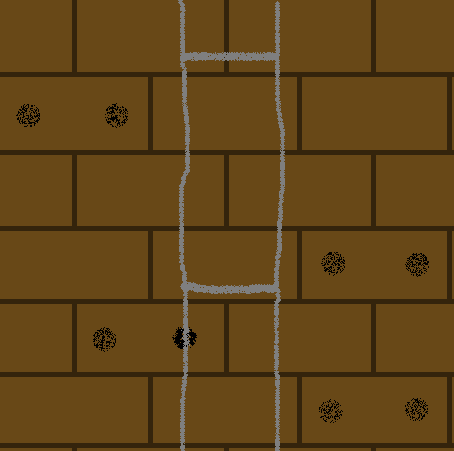
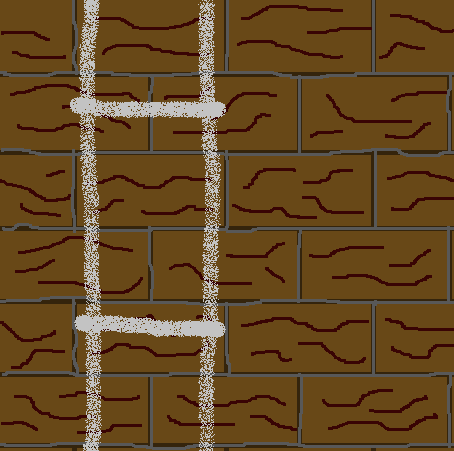
Code simplify (minor), wall and rope changes
Ropes appear upon hover. Pics updated. No build and export for this commit.

diff --git a/trapp/pages/pb/prisonbreak2.js b/trapp/pages/pb/prisonbreak2.js
@@ -657,6 +657,13 @@ const Game = ({isrejoin, prisonersOrGuards, gameid, nickname, wsmessage, client
     scrollToBottom("ScrollableMoves");
   },[moves])
 
+  function putAtMoveStart() {
+    setSelection(-1);
+    setAllowRewind(false);
+    setRcd(-1,-1,nodirection);
+    setCurrentcoords([]);
+  }
+
   function processGameMessage(message) {
     let messageData = JSON.parse(message);
     if (messageData.type === "announce") {
@@ -691,8 +698,6 @@ const Game = ({isrejoin, prisonersOrGuards, gameid, nickname, wsmessage, client
             gtiles: gtiles,
             usedby: usedby,
             whoseturn: whoseturn,
-            selection: selection,
-            currentcoords: currentcoords,
             snapshot: snapshot,
             passed: passed,
             moves: moves,
@@ -710,8 +715,6 @@ const Game = ({isrejoin, prisonersOrGuards, gameid, nickname, wsmessage, client
         setGtiles(messageData.gtiles);
         setUsedby(messageData.usedby);
         setWhoseturn(messageData.whoseturn);
-        setSelection(messageData.selection);
-        setCurrentcoords(messageData.currentcoords);
         setSnapshot(messageData.snapshot);
         setPassed(messageData.passed);
         setMoves(messageData.moves);
@@ -719,11 +722,8 @@ const Game = ({isrejoin, prisonersOrGuards, gameid, nickname, wsmessage, client
         setAllowRewind(messageData.allowRewind);
       }
       if (messageData.func === "ept" && prisonersOrGuards === "G") { // Prisoners sent end prisoners turn, Guards pick it up
+        putAtMoveStart();
         setWhoseturn(messageData.whoseturn);
-        setSelection(-1);
-        setAllowRewind(false);
-        setRcd(-1,-1,nodirection);
-        setCurrentcoords([]);
         setSquares(messageData.squares);
         setUsedby(messageData.usedby);
         setPtiles(messageData.ptiles);
@@ -739,11 +739,8 @@ const Game = ({isrejoin, prisonersOrGuards, gameid, nickname, wsmessage, client
         });
       }
       if (messageData.func === "egt" && prisonersOrGuards === "P") { // Guards sent end guards turn, Prisoners pick it up
+        putAtMoveStart();
         setWhoseturn(messageData.whoseturn);
-        setSelection(-1);
-        setAllowRewind(false);
-        setRcd(-1,-1,nodirection);
-        setCurrentcoords([]);
         setSquares(messageData.squares);
         setUsedby(messageData.usedby);
         setGtiles(messageData.gtiles);
@@ -759,20 +756,17 @@ const Game = ({isrejoin, prisonersOrGuards, gameid, nickname, wsmessage, client
       }
       if (messageData.func === "undoturn" && messageData.sender !== prisonersOrGuards) { 
         // opponent undid their last turn
+        putAtMoveStart();
         setTiles(messageData.tiles);
         setPtiles(messageData.ptiles);
         setGtiles(messageData.gtiles);
         setSquares(messageData.squares);
         setUsedby(messageData.usedby);
-        setSelection(messageData.selection);
         setWhoseturn(messageData.whoseturn);
-        setCurrentcoords(messageData.currentcoords);
         setRescues(messageData.rescues);
-        setRcd(messageData.rcd);
         setPassed(messageData.passed);
         setMoves(messageData.moves);
         setSnapshot(messageData.snapshot);
-        setAllowRewind(false);
       }
       if (messageData.func === "allowundo" && messageData.sender !== prisonersOrGuards) {
         // Opponent clicked button to allow undo turn
@@ -927,10 +921,8 @@ const Game = ({isrejoin, prisonersOrGuards, gameid, nickname, wsmessage, client
     let playinfo = getPlayInfo();
     let newMove = {by: "P", type: "PLAY", rewindInfo: rewindInfo, mainword: playinfo.mainword, extrawords: playinfo.extrawords, pos: playinfo.pos};
     let newMoves = [...moves, newMove];
+    putAtMoveStart();
     setWhoseturn(newWhoseturn);
-    setSelection(-1);
-    setAllowRewind(false);
-    setCurrentcoords([]);
     setPtiles(newPtiles);
     setTiles(newTiles);
     setPassed(false);
@@ -994,10 +986,8 @@ const Game = ({isrejoin, prisonersOrGuards, gameid, nickname, wsmessage, client
     let playinfo = getPlayInfo();
     let newMove = {by: "G", type: "PLAY", rewindInfo: rewindInfo, mainword: playinfo.mainword, extrawords: playinfo.extrawords, pos: playinfo.pos};
     let newMoves = [...moves, newMove];
+    putAtMoveStart();
     setWhoseturn(newWhoseturn);
-    setSelection(-1);
-    setAllowRewind(false);
-    setCurrentcoords([]);
     setGtiles(newGtiles);
     setTiles(newTiles);
     setPassed(false);
@@ -1046,12 +1036,10 @@ const Game = ({isrejoin, prisonersOrGuards, gameid, nickname, wsmessage, client
     newTiles.sort();
     let newMove = {by: "P", type: "SWAP", rewindInfo: rewindInfo};
     let newMoves = [...moves, newMove];
+    putAtMoveStart();
     setSquares([...snapshot.squares]);
     setUsedby([...snapshot.usedby]);
     setWhoseturn("G");
-    setSelection(-1);
-    setAllowRewind(false);
-    setCurrentcoords([]);
     setPtiles(newPtiles);
     setTiles(newTiles);
     setPassed(false);
@@ -1102,12 +1090,10 @@ const Game = ({isrejoin, prisonersOrGuards, gameid, nickname, wsmessage, client
     newTiles.sort();
     let newMove = {by: "G", type: "SWAP", rewindInfo: rewindInfo};
     let newMoves = [...moves, newMove];
+    putAtMoveStart();
     setSquares([...snapshot.squares]);
     setUsedby([...snapshot.usedby]);
     setWhoseturn("P");
-    setSelection(-1);
-    setAllowRewind(false);
-    setCurrentcoords([]);
     setGtiles(newGtiles);
     setTiles(newTiles);
     setPassed(false);
@@ -1357,10 +1343,7 @@ const Game = ({isrejoin, prisonersOrGuards, gameid, nickname, wsmessage, client
     let newPtiles = lastMove.by === "P" ? [...lastMove.rewindInfo.rack] : [...ptiles];
     let newGtiles = lastMove.by === "G" ? [...lastMove.rewindInfo.rack] : [...gtiles];
     let newRescues = lastMove.rewindInfo.rescues;
-    let newSelection = -1;
     let newWhoseturn = lastMove.by; // Back to their turn
-    let newCurrentcoords = [];
-    let newRcd = [-1,-1,nodirection];
     let newMoves = [...moves];
     newMoves.splice(numMoves-1,1);
     let newSnapshot = {
@@ -1370,20 +1353,17 @@ const Game = ({isrejoin, prisonersOrGuards, gameid, nickname, wsmessage, client
       ptiles: [...newPtiles]
     };
     let newPassed = lastMove.passed;
+    putAtMoveStart();
     setTiles(newTiles);
     setPtiles(newPtiles);
     setGtiles(newGtiles);
     setSquares(newSquares);
     setUsedby(newUsedby);
-    setSelection(newSelection);
     setWhoseturn(newWhoseturn);
-    setCurrentcoords(newCurrentcoords);
     setRescues(newRescues);
-    setRcd(newRcd);
     setPassed(newPassed);
     setMoves(newMoves);
     setSnapshot(newSnapshot);
-    setAllowRewind(false);
     // Just send everything even though some could be hard coded in processMessage by opponent
     client.send(
       JSON.stringify({
@@ -1398,11 +1378,8 @@ const Game = ({isrejoin, prisonersOrGuards, gameid, nickname, wsmessage, client
         gtiles: newGtiles, // guards rack
         squares: newSquares, // revert to start of turn squares
         usedby: newUsedby, // revert to start of turn used by
-        selection: newSelection, // selected tile on rack
         whoseturn: newWhoseturn, // swap never ends the game so go to opponent
-        currentcoords: newCurrentcoords, // coors of tiles place on board during move
         rescues: newRescues, // rescue count
-        rcd: newRcd, // row col direction for the arrow on the board
         passed: newPassed, // whether previous play was a pass
         moves: newMoves, // a move was made
         snapshot: newSnapshot
@@ -1417,14 +1394,15 @@ const Game = ({isrejoin, prisonersOrGuards, gameid, nickname, wsmessage, client
     setGtiles([...snapshot.gtiles]);
     setSelection(-1);
     setCurrentcoords([]);
+    setRcd([-1,-1,nodirection]);
   };
 
   const prisonerPass = () => {
     recallTiles(); // In case they put some tiles on the board before clicking Pass
+    putAtMoveStart();
     let newWhoseturn = passed ? "X" : "G"; // If both players pass then end the game by using "X"
     setWhoseturn(newWhoseturn);
     setPassed(true);
-    setAllowRewind(false);
     let newMove = {by: "P", type: "PASS"};
     let newMoves = [...moves, newMove];
     client.send(
@@ -1449,10 +1427,10 @@ const Game = ({isrejoin, prisonersOrGuards, gameid, nickname, wsmessage, client
 
   const guardsPass = () => {
     recallTiles(); // In case they put some tiles on the board before clicking Pass
+    putAtMoveStart();
     let newWhoseturn = passed ? "X" : "P"; // If both players pass then end the game by using "X"
     setWhoseturn(newWhoseturn);
     setPassed(true);
-    setAllowRewind(false);
     let newMove = {by: "G", type: "PASS"};
     let newMoves = [...moves, newMove];
     client.send(

diff --git a/trapp/pages/pb/prisonbreak.css b/trapp/pages/pb/prisonbreak.css
@@ -53,9 +53,12 @@
      */
     width: 360px;
     padding-top: 3px;
-    background-image: url("../../public/WallAndRope.png");
+    background-image: url("../../public/Wall.png");
     background-repeat: repeat;
     background-size: 150px;
+}
+.pbPlayerOuterSection:hover {
+    background-image: url("../../public/WallAndRope.png");
 }
 .pbPlayerInnerSection {
     align-items: center;
